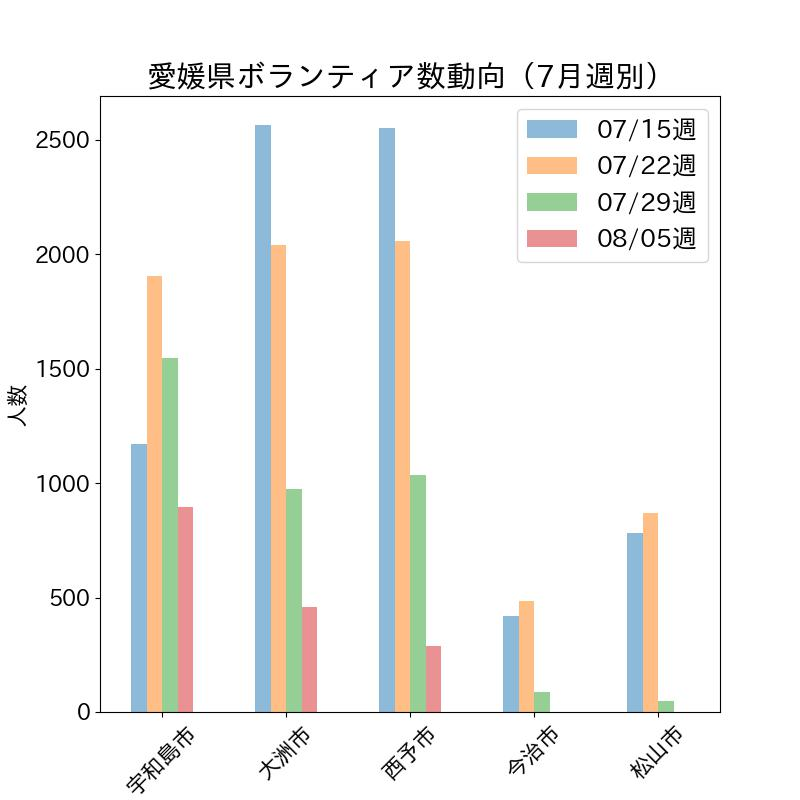
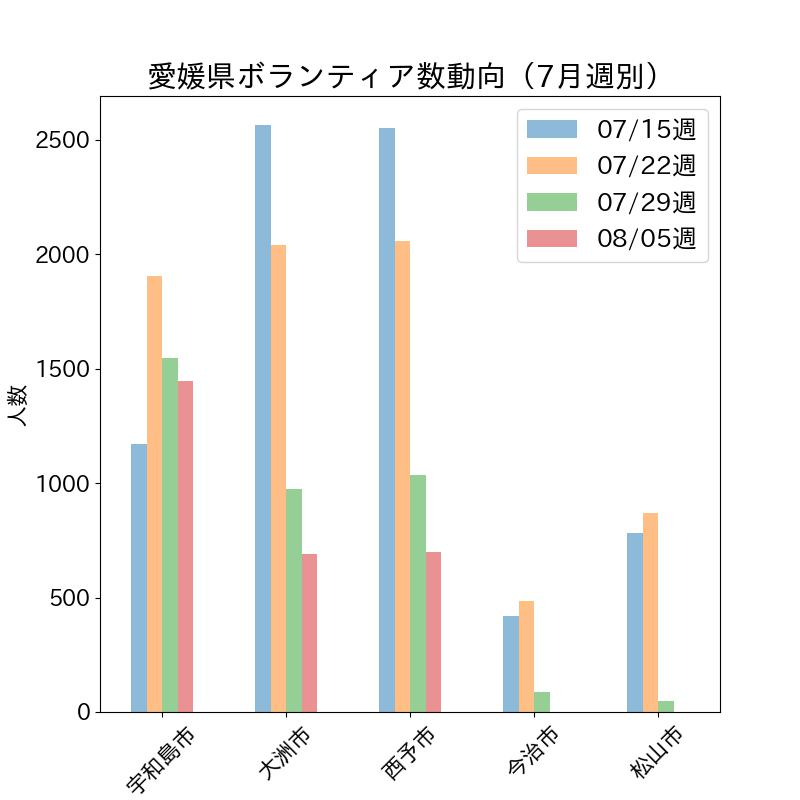
8/5分

Changed region(s): [[0.2188, 0.4688, 0.25, 0.6562], [0.5312, 0.6875, 0.5625, 0.8125], [0.375, 0.6875, 0.4062, 0.7812]]

diff --git a/_pages/volunteer_aggregation.md b/_pages/volunteer_aggregation.md
@@ -1,15 +1,15 @@
 ---
-title: 【08/03版 愛媛県ボランティア数動向】
+title: 【08/06版 愛媛県ボランティア数動向】
 description: 松山市社協、八幡浜市社協、愛媛災害支援センターが公開しているデータを元に、ボランティア数のグラフを作成・公開しています。
 permalink: /volunteer/aggregation/
 date: 2018-07-18 05:59:06 +0900
-last_modified_at: 2018-08-04 07:16:50 +0900
+last_modified_at: 2018-08-06 08:56:31 +0900
 sidebar:
   nav: volunteer_menu
 
 ---
 
-## 【08/03から過去一週間分データ更新】
+## 【08/06から過去一週間分データ更新】
 
 各社協、ボランティアセンターが公開している情報を元に、愛媛県内のボランティア数の一覧とグラフを公開しています。データ数が増えてきたので過去８日以内の表示にしています。全データは[こちら](https://docs.google.com/spreadsheets/d/1h-GFHoNa55P96wu_HNbPk899eN4HZcnu1T9q4eag8Uc/edit#gid=0)にあります。 [^1]
 
@@ -19,29 +19,27 @@ sidebar:
 
 ### 宇和島市
 
-安定してボランティアが確保できていますが、個人の募集範囲が**四国圏内に縮小された**(団体は県外からの募集は引き続きあり）ので、今後の動向に注目が集まります。
 
- ![宇和島ボラ数（募集と実績）](/assets/images/volunteer_headcount/宇和島市_volunteer_headcount_diff_20180803.png)
+ ![宇和島ボラ数（募集と実績）](/assets/images/volunteer_headcount/宇和島市_volunteer_headcount_diff_20180806.png)
 
 ### 大洲市
 
-概ね募集人数に近い実績数となっています。
-
- ![大洲市ボラ数（募集と実績）](/assets/images/volunteer_headcount/大洲市_volunteer_headcount_diff_20180803.png)
+ ![大洲市ボラ数（募集と実績）](/assets/images/volunteer_headcount/大洲市_volunteer_headcount_diff_20180806.png)
 
 ### 西予市
 
-ここ数日は募集人員に達していません。8/4から募集人員は無制限になりました。
+ ![大洲市ボラ数（募集と実績）](/assets/images/volunteer_headcount/西予市_volunteer_headcount_diff_20180806.png)
 
- ![大洲市ボラ数（募集と実績）](/assets/images/volunteer_headcount/西予市_volunteer_headcount_diff_20180803.png)
+### まとめ
+
 
 ## 傾向
 
 エリア | 前日比 | 前週同日比
 ---------|----------|---------
- 宇和島市 | :arrow_lower_right:-1 | :arrow_right:0
- 大洲市  | :arrow_upper_right:15 | :arrow_lower_right:-46
- 西予市  | :arrow_lower_right:-58 | :arrow_lower_right:-11
+ 宇和島市 | :arrow_lower_right:-49 | :arrow_upper_right:251
+ 大洲市  | :arrow_upper_right:39 | :arrow_upper_right:134
+ 西予市  | :arrow_lower_right:-51 | :arrow_upper_right:180
 
 
 
@@ -56,14 +54,14 @@ sidebar:
 
 | 日付   |   宇和島市 |   大洲市 |   西予市 |   今治市 |   松山市 |
 |:-------|-----------:|---------:|---------:|---------:|---------:|
-| 07/27  |        252 |      142 |       89 |       23 |        0 |
-| 07/28  |        391 |      154 |      290 |        0 |        0 |
 | 07/29  |          0 |        0 |        0 |        0 |        0 |
 | 07/30  |          0 |        0 |        0 |        0 |        0 |
 | 07/31  |         72 |      104 |       75 |        0 |        0 |
 | 08/01  |        318 |      179 |        0 |        0 |        0 |
 | 08/02  |        253 |       81 |      136 |        0 |        0 |
 | 08/03  |        252 |       96 |       78 |        0 |        0 |
+| 08/04  |        300 |       95 |      231 |        0 |        0 |
+| 08/05  |        251 |      134 |      180 |        0 |        0 |
 
 ## 【週毎のボランティア数動向】
 
@@ -74,7 +72,7 @@ sidebar:
 | 07/15週 |       1172 |     2562 |     2552 |      419 |      781 |
 | 07/22週 |       1902 |     2040 |     2056 |      484 |      867 |
 | 07/29週 |       1546 |      976 |     1036 |       87 |       46 |
-| 08/05週 |        895 |      460 |      289 |        0 |        0 |
+| 08/05週 |       1446 |      689 |      700 |        0 |        0 |
 
 ### 元データ
 
